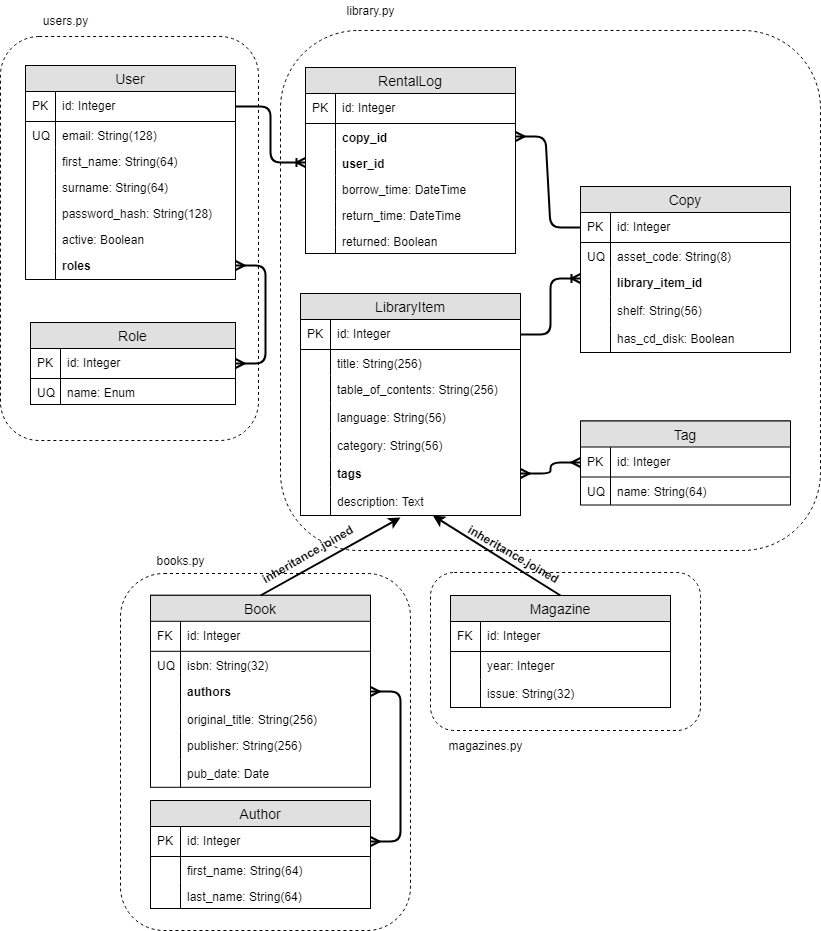
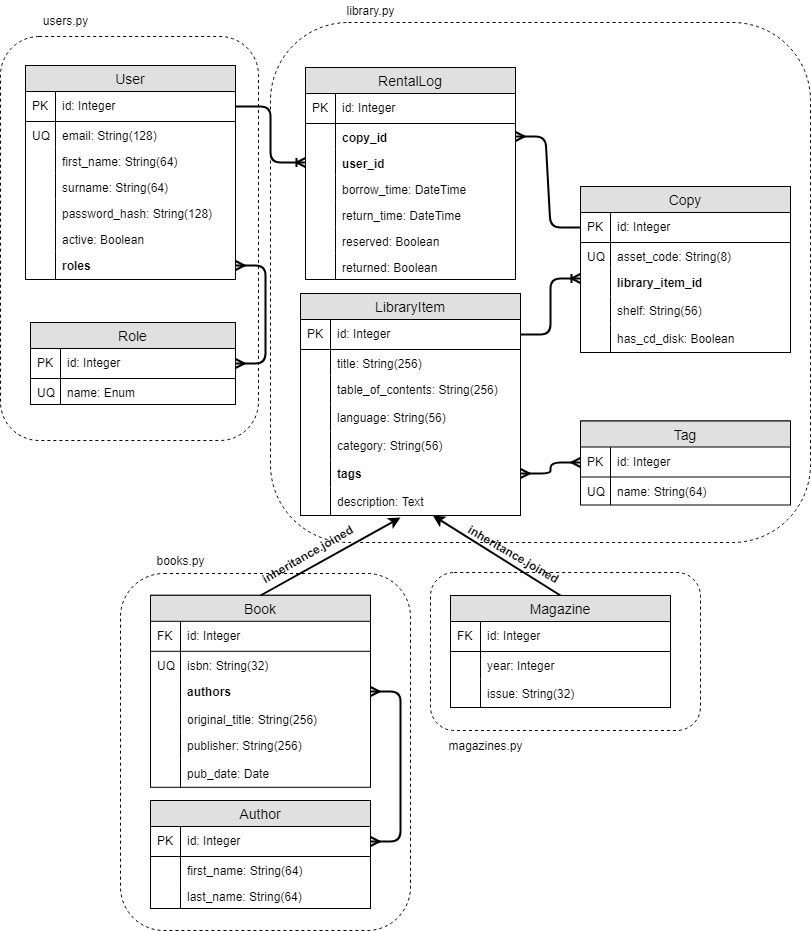
timezones handling, reserved boolean in rental logs

diff --git a/models/library.py b/models/library.py
@@ -1,3 +1,5 @@
+import pytz
+
 from app import db
 
 
@@ -45,9 +47,32 @@ class RentalLog(db.Model):
     user_id = db.Column(db.Integer,
                         db.ForeignKey('users.id'),
                         nullable=False)
-    borrow_time = db.Column(db.DateTime)
-    return_time = db.Column(db.DateTime)
+    _borrow_time = db.Column(db.DateTime)
+    _return_time = db.Column(db.DateTime)
+    reserved = db.Column(db.Boolean)
     returned = db.Column(db.Boolean)
+
+    @property
+    def borrow_time(self):
+        return self._borrow_time.replace(tzinfo=pytz.utc).\
+            astimezone(tz=pytz.timezone('Europe/Warsaw'))
+
+    @borrow_time.setter
+    def borrow_time(self, dt):
+        if dt.tzinfo is None:
+            raise ValueError("borrow_time has to be timezone aware")
+        self._borrow_time = dt.astimezone(tz=pytz.utc)
+
+    @property
+    def return_time(self):
+        return self._return_time.replace(tzinfo=pytz.utc). \
+            astimezone(tz=pytz.timezone('Europe/Warsaw'))
+
+    @return_time.setter
+    def return_time(self, dt):
+        if dt.tzinfo is None:
+            raise ValueError("return_time has to be timezone aware")
+        self._return_time = dt.astimezone(tz=pytz.utc)
 
     def __str__(self):
         return "RENTAL LOG: user: {} copy: {}".format(

diff --git a/tests/populate.py b/tests/populate.py
@@ -1,5 +1,5 @@
 from datetime import datetime
-
+import pytz
 from mimesis import Generic
 from random import randint
 
@@ -80,7 +80,7 @@ def populate_rental_logs(copy_id, user_id, n=30):
     return [RentalLog(
         copy_id=copy_id,
         user_id=user_id,
-        borrow_time=datetime.now(),
-        return_time=g.datetime.datetime(),
+        borrow_time=datetime.now(tz=pytz.utc),
+        return_time=datetime.now(tz=pytz.utc),
         returned=g.development.boolean()
     ) for _ in range(n)]

diff --git a/models/__init__.py b/models/__init__.py
@@ -2,3 +2,8 @@ from models.books import Book, Author
 from models.users import Role, User
 from models.library import RentalLog, Copy, Tag, LibraryItem
 from models.magazines import Magazine
+
+__all__ = ['Book', 'Author',
+           'Role', 'User',
+           'RentalLog', 'Copy', 'Tag', 'LibraryItem',
+           'Magazine']

diff --git a/tests/test_db.py b/tests/test_db.py
@@ -1,5 +1,4 @@
 from random import randint
-
 from sqlalchemy import func
 
 from tests.populate import (
@@ -19,7 +18,7 @@ from models import (
     Book,
     Copy,
     LibraryItem,
-    Magazine
+    Magazine,
 )
 
 
